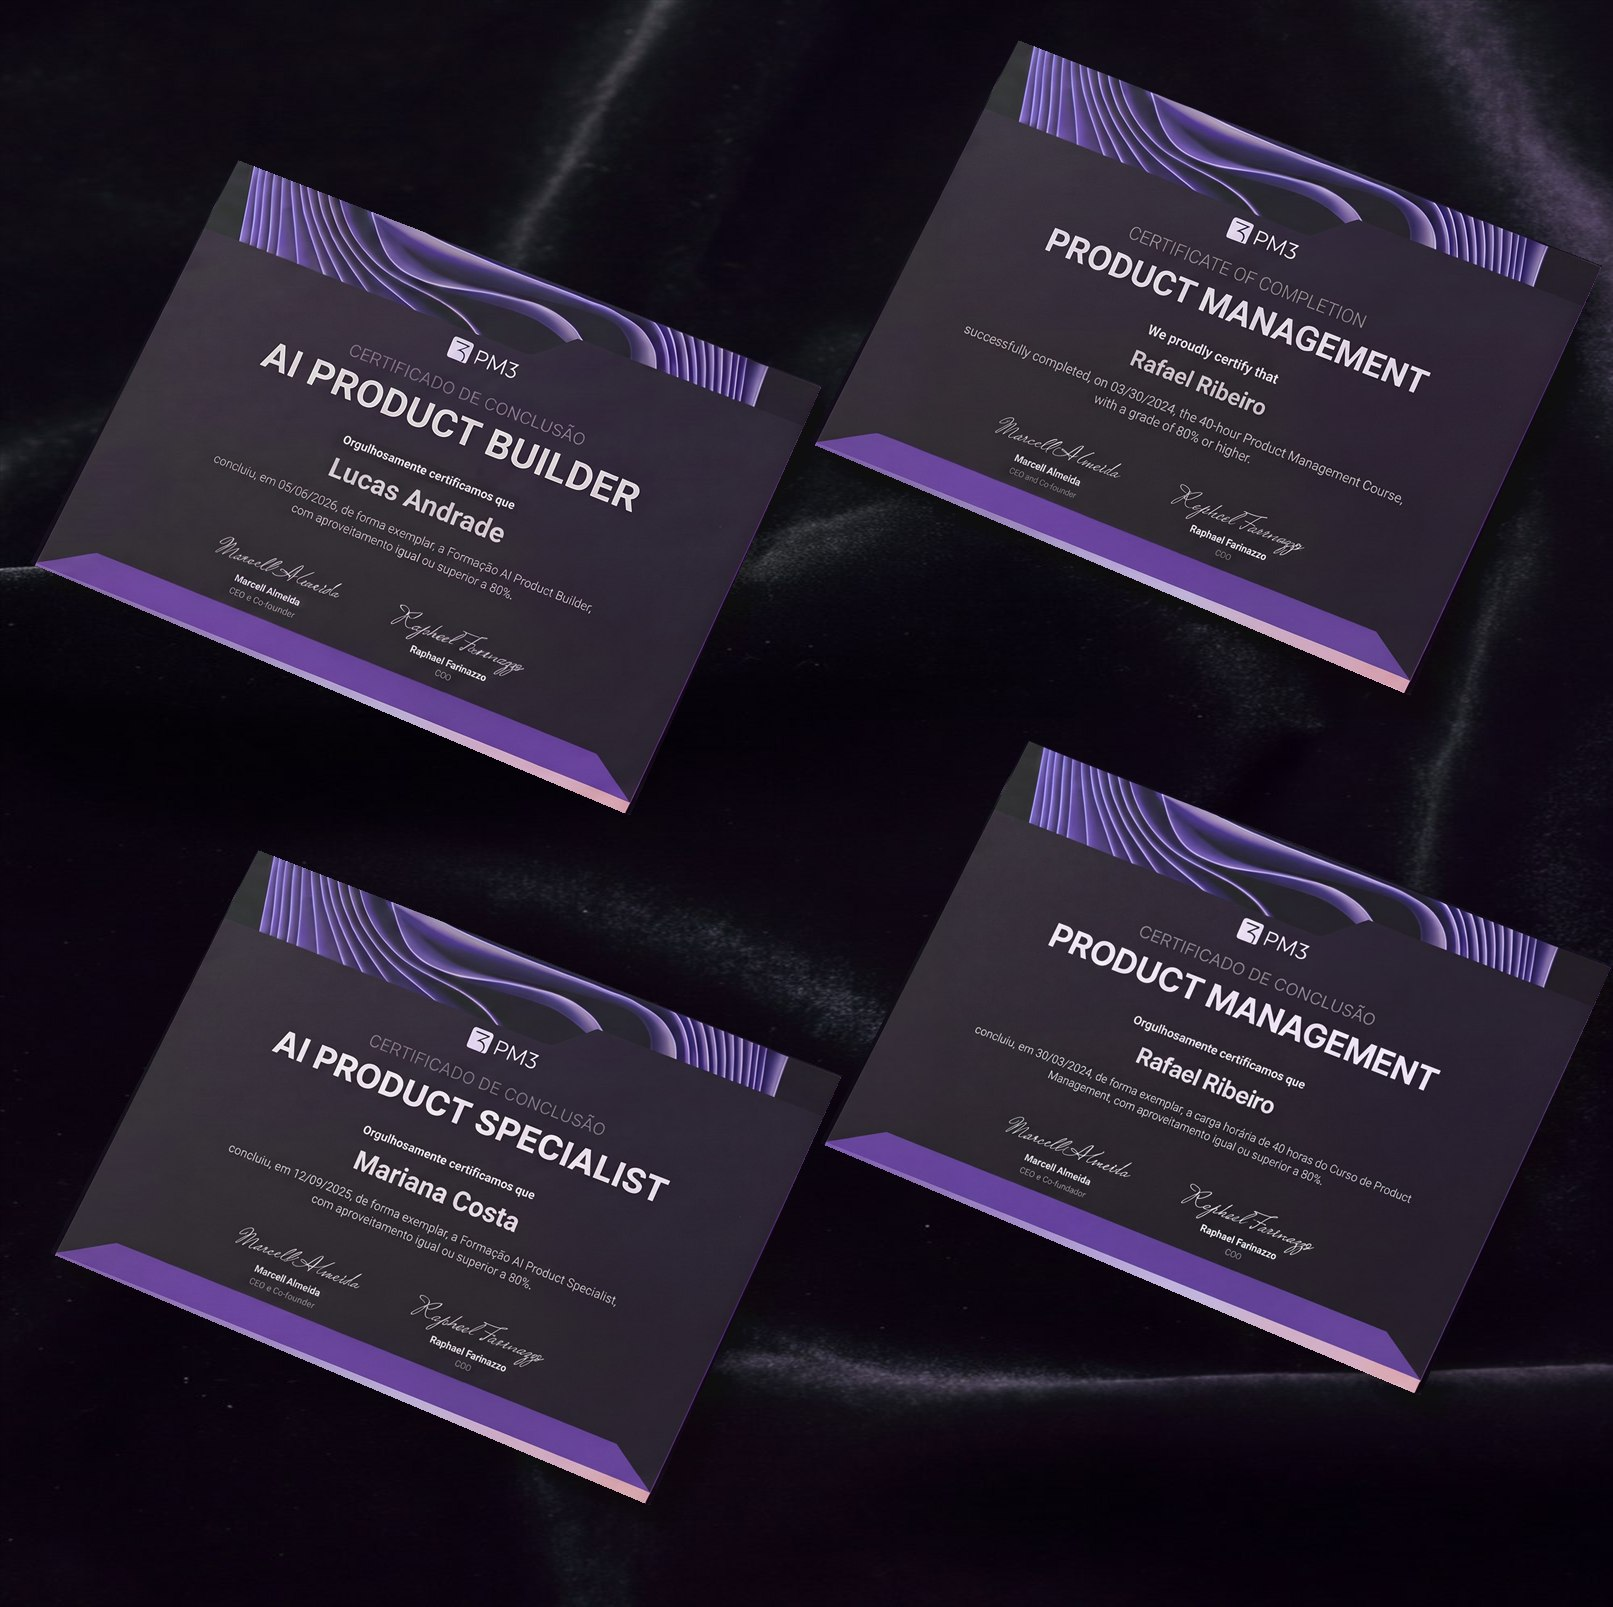
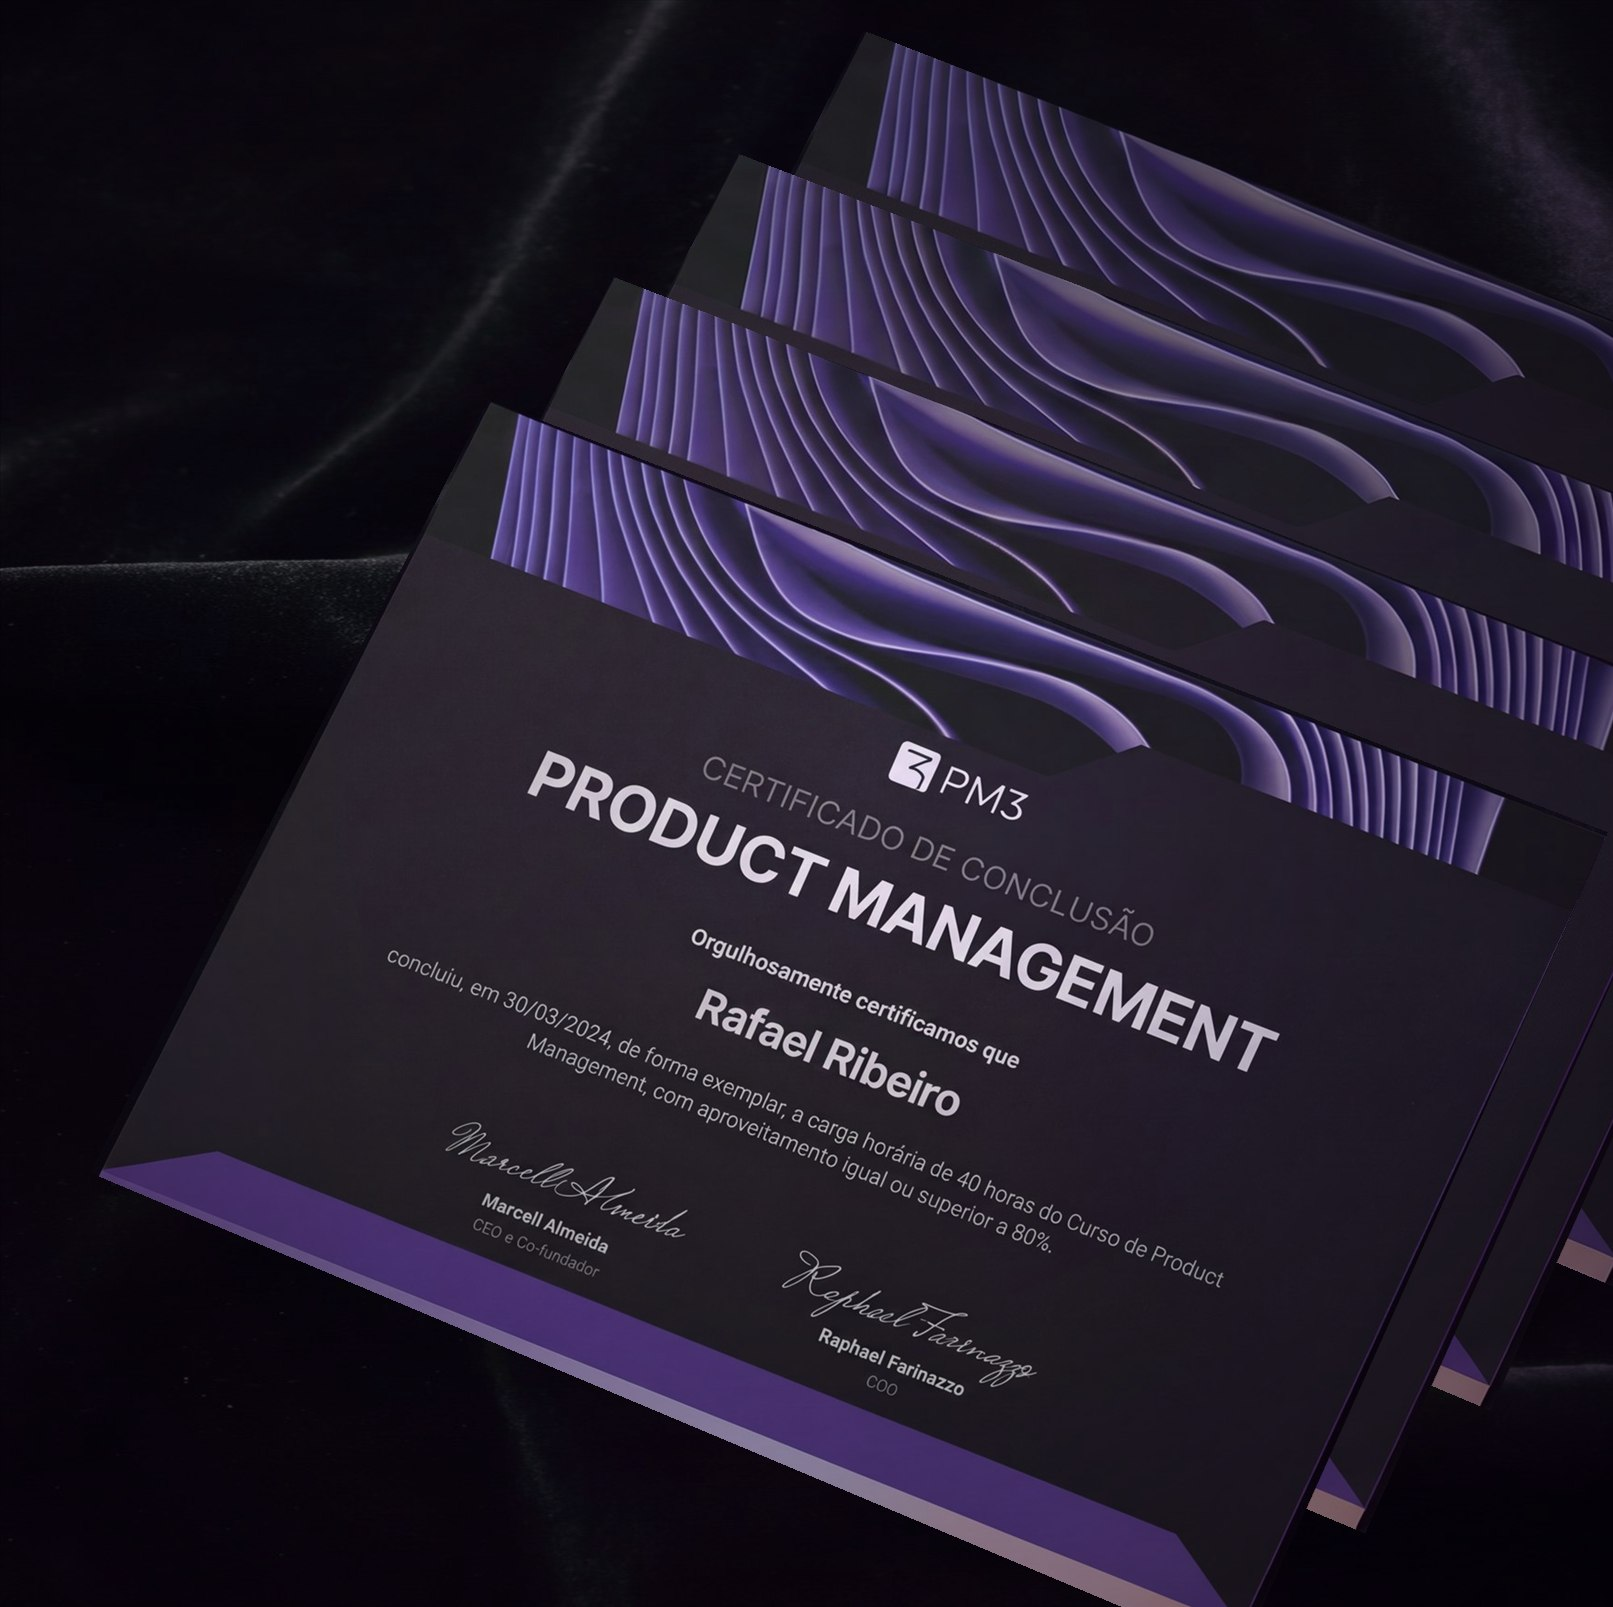
Home: mockup do certificado em pilha, enquadramento mais próximo

diff --git a/home.html b/home.html
@@ -191,7 +191,7 @@
 
 <!-- 5 · CERTIFICADO (certificado.css, a mesma dobra do Membership) -->
 <section class="cx-sec on-dark" aria-labelledby="ce-t">
-  <div class="cx-hero cx-var cx-troca" id="cxTroca" style="--cert-full:url('../img/certificados-4-veludo.jpg?v=1');--cert-crop:url('../img/certificados-4-veludo-crop.jpg?v=1')" data-nota="Uma imagem só com os quatro certificados (Product Management, AI Product Specialist, AI Product Builder e Product Management em inglês), montada a partir das artes reais dos mockups no veludo.">
+  <div class="cx-hero cx-var cx-troca" id="cxTroca" style="--cert-full:url('../img/certificados-4-veludo.jpg?v=2');--cert-crop:url('../img/certificados-4-veludo-crop.jpg?v=2')" data-nota="Uma imagem só com os quatro certificados (Product Management, AI Product Specialist, AI Product Builder e Product Management em inglês), em pilha (Product Management na frente), montada a partir das artes reais dos mockups no veludo.">
     <div class="wrap">
       <div class="cx-copy">
         <p class="kicker">Certificado PM3</p>
